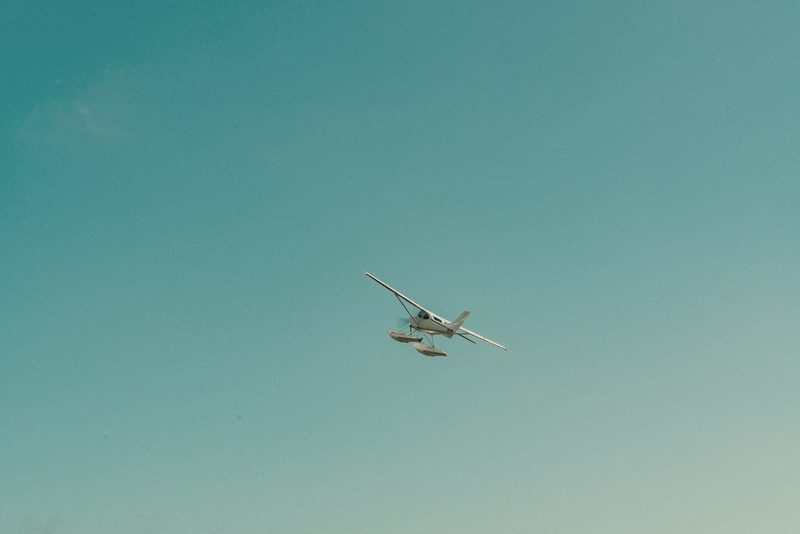
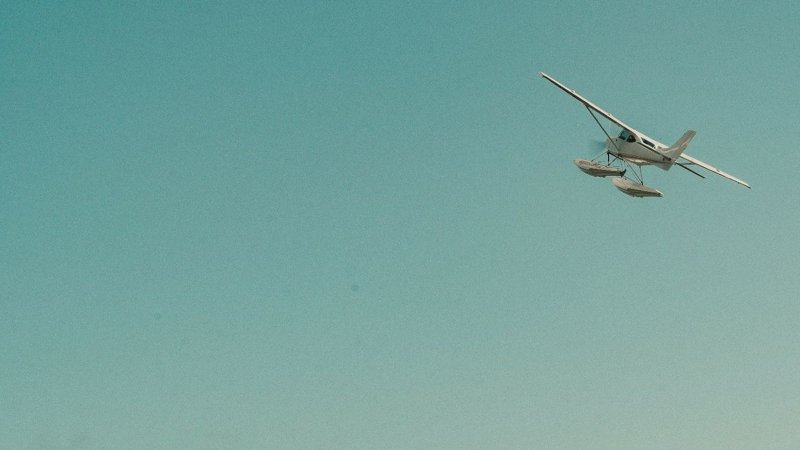
Headlines on photos with per-image placement, copy pass on repetition and myths, uniform text column

diff --git a/index.html b/index.html
@@ -119,19 +119,19 @@
 
   <main id="main">
     <section class="opener" aria-labelledby="home-title">
+      <div class="opener-photo">
+        <img class="pos-labyrinth" src="assets/img/labyrinth-full.jpg" srcset="assets/img/labyrinth-800.jpg 800w, assets/img/labyrinth-full.jpg 1500w" sizes="(min-width: 1240px) 1130px, 100vw" alt="A woman with a backpack walks between tall hedges in a maze" width="1500" height="2000" decoding="async">
+        <h1 class="photo-title" id="home-title">Lost in the labyrinth?<br> We'll guide you through.</h1>
+      </div>
       <div class="opener-text">
         <div class="opener-inner">
-          <h1 id="home-title">Lost in the labyrinth?<br> We'll guide you through.</h1>
-          <p class="lede">We know recruitment businesses from the inside. We've worked in every part of one, hiring included, so we understand what the business needs and what the person joining it needs too.</p>
+          <p class="lede">Recruitment can feel like a maze, whether you're hiring or looking for your next role. We know it from the inside, so we can show both of you the way through.</p>
           <ul class="chips" aria-label="Roles we recruit for">
           <li>Trainees</li><li>Recruiters</li><li>Sales</li><li>Marketing</li><li>Operations</li><li>Admin</li>
           </ul>
           <div class="actions"><a class="btn" href="contact.html">Get in touch</a></div>
         </div>
       </div>
-      <figure class="opener-photo">
-        <img class="pos-labyrinth" src="assets/img/labyrinth-full.jpg" srcset="assets/img/labyrinth-800.jpg 800w, assets/img/labyrinth-full.jpg 1500w" sizes="(min-width: 1240px) 1130px, 100vw" alt="A woman with a backpack walks between tall hedges in a maze" width="1500" height="2000" decoding="async">
-      </figure>
     </section>
 
     <section class="section white" aria-labelledby="myths-title">
@@ -141,31 +141,31 @@
           <li>
             <details>
               <summary><span class="label">Myth</span><span class="myth">A recruiter just fills the vacancy.</span><span class="reveal" aria-hidden="true"></span></summary>
-              <p class="truth"><span class="label">Truth</span>We understand your business, not just the vacancy, and the impact the role will have now and in the future. We don't place just to fill a gap. We place to support the growth of your business and the candidate.</p>
+              <p class="truth"><span class="label">Truth</span>We learn your business, not just the vacancy, and what the role will mean for it now and later. We don't place people to fill a gap. We place them so the business and the person both grow.</p>
             </details>
           </li>
           <li>
             <details>
               <summary><span class="label">Myth</span><span class="myth">Your CV says it all.</span><span class="reveal" aria-hidden="true"></span></summary>
-              <p class="truth"><span class="label">Truth</span>We take the time to understand you properly, not just your CV. You are more than a two page list of your experience, and what you are looking for is more than what's written on a job description.</p>
+              <p class="truth"><span class="label">Truth</span>You are more than two pages of experience, and what you want is more than a job description. We take the time to understand both.</p>
             </details>
           </li>
           <li>
             <details>
-              <summary><span class="label">Myth</span><span class="myth">Once your CV is sent, you're on your own.</span><span class="reveal" aria-hidden="true"></span></summary>
-              <p class="truth"><span class="label">Truth</span>We take the time to prepare you for every interview, so you walk in confident.</p>
+              <summary><span class="label">Myth</span><span class="myth">Once the CV is sent, the recruiter disappears.</span><span class="reveal" aria-hidden="true"></span></summary>
+              <p class="truth"><span class="label">Truth</span>We prepare every candidate for every interview, keep clients updated throughout, and stay in touch with both long after the start date.</p>
             </details>
           </li>
           <li>
             <details>
-              <summary><span class="label">Myth</span><span class="myth">You need experience to be a recruiter.</span><span class="reveal" aria-hidden="true"></span></summary>
-              <p class="truth"><span class="label">Truth</span>If you don't have direct recruitment experience but you have the motivation and skill set to succeed, our trainee roles are made for you.</p>
+              <summary><span class="label">Myth</span><span class="myth">You need experience to become a recruiter.</span><span class="reveal" aria-hidden="true"></span></summary>
+              <p class="truth"><span class="label">Truth</span>You don't. If you have the motivation and the skills to succeed, our trainee roles are made for you.</p>
             </details>
           </li>
           <li>
             <details>
-              <summary><span class="label">Myth</span><span class="myth">Recruitment is just a stop gap before another sales career.</span><span class="reveal" aria-hidden="true"></span></summary>
-              <p class="truth"><span class="label">Truth</span>Whether your first step turns into a long term career depends entirely on how it's approached. We help you understand what recruitment actually involves and whether it's right for you.</p>
+              <summary><span class="label">Myth</span><span class="myth">Recruitment is just a stop gap.</span><span class="reveal" aria-hidden="true"></span></summary>
+              <p class="truth"><span class="label">Truth</span>For plenty of people it becomes a long career. Whether it does for you depends on how you start, so we make sure you know what the job really involves before you say yes.</p>
             </details>
           </li>
         </ol>
@@ -179,12 +179,12 @@
         <a class="card" href="hiring.html">
           <figure class="card-photo"><img class="pos-pillars" src="assets/img/pillars-800.jpg" alt="" width="800" height="533" loading="lazy" decoding="async"><figcaption class="card-hint" aria-hidden="true">Relationships that stand the test of time.</figcaption></figure>
           <h3>Hiring</h3>
-          <p>We work with you as a partner, shaping the hire around your business.</p>
+          <p>Every role that keeps a recruitment business running, hired around how yours actually works.</p>
         </a>
         <a class="card" href="careers.html">
           <figure class="card-photo"><img class="pos-sisyphus" src="assets/img/sisyphus-800.jpg" alt="" width="800" height="600" loading="lazy" decoding="async"><figcaption class="card-hint" aria-hidden="true">Pushing the same boulder every quarter?</figcaption></figure>
           <h3>Careers</h3>
-          <p>Starting out or ready for your next move, we take the time to understand what you want and prepare you properly for every interview.</p>
+          <p>Starting out or ready for your next move, we'll find where you fit and prepare you for every interview.</p>
         </a>
         </div>
       </div>

diff --git a/styles.css b/styles.css
@@ -38,6 +38,7 @@
   --container: 1240px;
   --radius-lg: 24px;
   --pad: clamp(16px, 4vw, 56px);
+  --inset: clamp(22px, 4.5vw, 64px); /* text column inside the photo frame */
 }
 
 *, *::before, *::after { box-sizing: border-box; }
@@ -68,7 +69,8 @@ a:hover { color: var(--delos-blue-900); }
 ::selection { background: var(--pink); color: var(--white); }
 
 .wrap { width: 100%; max-width: var(--container); margin: 0 auto; padding: 0 var(--pad); }
-.narrow { max-width: 820px; }
+.wrap.narrow { padding-left: calc(var(--pad) + var(--inset)); padding-right: calc(var(--pad) + var(--inset)); }
+.wrap.narrow > * { max-width: 760px; }
 
 .skip { position: absolute; left: -9999px; }
 .skip:focus { left: 16px; top: 16px; background: var(--white); padding: 8px 12px; z-index: 20; }
@@ -145,11 +147,10 @@ p { margin: 0 0 1em; text-wrap: pretty; }
 a.card:hover { color: var(--slate); }
 a.card:hover .card-photo img { transform: scale(1.03); }
 a.card:hover h3 { color: var(--delos-blue); }
-/* Hint: the page's headline fades in on the photo when you hover (always shown on touch screens). */
+/* Each card carries its page's headline on the photo, as the page heroes do. */
 .card-photo { position: relative; }
 .card-hint { position: absolute; inset: auto 0 0 0; padding: 72px 28px 22px; margin: 0; font-family: var(--font-display); font-size: clamp(20px, 1.9vw, 24px); line-height: 1.2; letter-spacing: -0.01em; text-wrap: balance; color: #fff; background: linear-gradient(to top, rgba(29,30,33,.72) 0%, rgba(29,30,33,.35) 55%, rgba(29,30,33,0) 100%); opacity: 0; transform: translateY(8px); transition: opacity 400ms var(--ease), transform 400ms var(--ease); pointer-events: none; }
-a.card:hover .card-hint, a.card:focus-visible .card-hint { opacity: 1; transform: none; }
-@media (hover: none) { .card-hint { opacity: 1; transform: none; } }
+.card-hint { opacity: 1; transform: none; }
 @media (prefers-reduced-motion: reduce) { .card-hint { transition: none; } }
 
 /* Steps */
@@ -192,17 +193,27 @@ a.card:hover .card-hint, a.card:focus-visible .card-hint { opacity: 1; transform
 .contact-list { list-style: none; padding: 0; margin: 32px 0 0; border-top: 1px solid var(--slate-200); }
 .contact-list li { padding: 16px 0; border-bottom: 1px solid var(--slate-200); }
 
-/* Opener: every page opens the same way. One idea, centred: headline, one line, one action,
-   then the page's photo below the words, large, with soft corners. Photos appear only here and on the Home tiles. */
-.opener { overflow: hidden; padding: 48px 0 32px; }
-.opener-text { padding: 0 var(--pad); }
-.opener-inner { max-width: 880px; margin: 0 auto; text-align: center; }
-.opener-inner .lede { margin-left: auto; margin-right: auto; }
-.opener-inner .chips, .opener-inner .actions { justify-content: center; }
-.opener-inner .actions { margin-top: 28px; }
-.opener-photo { margin: 40px auto 0; width: calc(100% - 2 * var(--pad)); max-width: calc(var(--container) - 2 * var(--pad)); overflow: hidden; aspect-ratio: 4 / 5; border-radius: var(--radius-lg); background: var(--slate-200); }
+/* Opener: every page opens the same way. The photo carries its headline in white along the bottom
+   (one soft dark shade), and the line beneath explains it, on the same left edge, so photo, headline
+   and words read as one piece. Careers repeats the same frame for its second story (.story). */
+.opener { overflow: hidden; padding: 24px 0 64px; }
+.opener.story { padding-top: 0; }
+.opener-photo { position: relative; margin: 0 auto; width: calc(100% - 2 * var(--pad)); max-width: calc(var(--container) - 2 * var(--pad)); overflow: hidden; aspect-ratio: 4 / 5; border-radius: var(--radius-lg); background: var(--slate-200); }
 .opener-photo img { width: 100%; height: 100%; object-fit: cover; }
-/* Photos carry one shared film grade baked into the files (warm, lifted blacks, fine grain), so they read as one set. */
+.opener-photo::after { content: ""; position: absolute; inset: 0; background: linear-gradient(to top, rgba(17, 18, 22, 0.74) 0%, rgba(17, 18, 22, 0.42) 34%, rgba(17, 18, 22, 0) 62%); pointer-events: none; }
+.photo-title { position: absolute; left: 0; bottom: 0; z-index: 1; margin: 0; padding: 0 var(--inset) var(--inset); max-width: 13em; color: var(--white); text-shadow: 0 2px 24px rgba(17, 18, 22, 0.35); }
+/* Per photo, the headline sits in the calmest part of the frame. Default is bottom left;
+   .title-top moves it (and the shade) to the top, e.g. Sisyphus, so the figure stays clear. */
+.opener-photo.title-top::after { background: linear-gradient(to bottom, rgba(17, 18, 22, 0.62) 0%, rgba(17, 18, 22, 0.3) 34%, rgba(17, 18, 22, 0) 60%); }
+.title-top .photo-title { top: 0; bottom: auto; padding: var(--inset) var(--inset) 0; }
+h2.photo-title { font-size: var(--t-display); line-height: 1.02; letter-spacing: -0.02em; }
+.opener-text { padding: 0 var(--pad); }
+.opener-inner { max-width: calc(var(--container) - 2 * var(--pad)); margin: 0 auto; padding: 36px var(--inset) 0; }
+.opener-inner > :last-child { margin-bottom: 0; }
+.opener-inner p:not(.lede) { max-width: 38em; }
+.opener-inner .chips { margin-top: 0; }
+.opener-inner .actions { margin-top: 28px; }
+.opener-inner .contact-list { max-width: 38em; }
 .opener-placeholder { display: flex; align-items: center; justify-content: center; padding: 32px; text-align: center; color: var(--slate-500); font-size: var(--t-small); }
 .opener-placeholder p { margin: 0; max-width: 18em; }
 .pos-labyrinth { object-position: 50% 45%; }
@@ -211,9 +222,9 @@ a.card:hover .card-hint, a.card:focus-visible .card-hint { opacity: 1; transform
 .pos-ships { object-position: 50% 60%; }
 @media (min-width: 760px) { .pos-ships { object-position: 50% 84%; } }
 .pos-crossroads { object-position: 50% 50%; }
-.pos-plane { object-position: 54% 58%; }
+.pos-plane { object-position: 88% 50%; }
+@media (min-width: 760px) { .pos-plane { object-position: 50% 50%; } }
 .pos-dead-end { object-position: 50% 50%; }
-.section-photo { margin-top: 56px; }
 
 /* Footer: three even columns. Company | Pages | Contact */
 .site-footer { background: var(--slate); color: #C9CACD; padding: 72px 0 56px; font-size: var(--t-small); }
@@ -237,8 +248,10 @@ a.card:hover .card-hint, a.card:focus-visible .card-hint { opacity: 1; transform
   .site-header nav { width: auto; order: 1; margin-left: auto; }
   .header-cta { order: 2; margin-left: 8px; }
   .footer-grid { grid-template-columns: 1fr 1fr 1fr; }
-  .opener { padding: 96px 0 40px; }
-  .opener-photo { margin-top: 64px; aspect-ratio: 16 / 9; }
+  .opener { padding: 40px 0 88px; }
+  .opener.story { padding-top: 0; }
+  .opener-photo { aspect-ratio: 16 / 9; max-height: calc(100vh - 140px); min-height: 460px; }
+  .opener-inner { padding-top: 44px; }
 }
 
 @media (prefers-reduced-motion: reduce) {

diff --git a/careers.html b/careers.html
@@ -119,30 +119,31 @@
 
   <main id="main">
     <section class="opener" aria-labelledby="careers-title">
+      <div class="opener-photo title-top">
+        <img class="pos-sisyphus" src="assets/img/sisyphus-full.jpg" srcset="assets/img/sisyphus-800.jpg 800w, assets/img/sisyphus-full.jpg 1500w" sizes="(min-width: 1240px) 1130px, 100vw" alt="A man pushing against a huge boulder on a rocky hillside" width="1500" height="1125" decoding="async">
+        <h1 class="photo-title" id="careers-title">Pushing the same boulder every quarter?</h1>
+      </div>
       <div class="opener-text">
         <div class="opener-inner">
-          <h1 id="careers-title">Pushing the same boulder every quarter<span class="dot">?</span></h1>
-          <p class="lede">Already in recruitment and thinking about your next move? We'll talk through what you want from your next role and which businesses are worth knowing about. Everything you tell us stays confidential.</p>
+          <p class="lede">Same targets, same uphill push, and nothing changes? If you're already in recruitment and ready for more, we'll talk through what you want from your next role and which businesses are worth knowing about. Everything you tell us stays confidential.</p>
           <div class="actions"><a class="btn" href="https://calendly.com/maria-delosrecruitment/initial-call?a1=Candidate%20call">Book a candidate call</a></div>
         </div>
       </div>
-      <figure class="opener-photo">
-        <img class="pos-sisyphus" src="assets/img/sisyphus-full.jpg" srcset="assets/img/sisyphus-800.jpg 800w, assets/img/sisyphus-full.jpg 1500w" sizes="(min-width: 1240px) 1130px, 100vw" alt="A man pushing against a huge boulder on a rocky hillside" width="1500" height="1125" decoding="async">
-      </figure>
     </section>
 
-    <section class="section white" aria-labelledby="new-title">
-      <div class="wrap narrow">
-        <h2 id="new-title">Did you fall into recruitment?<br> We'll help you fly.</h2>
-        <p class="lede">Whether your first step turns into a long term career depends entirely on how it's approached. That's where Delos comes in.</p>
-        <p>If you're new to the industry, we make sure you have a clear understanding of what recruitment actually involves and whether it's right for you.</p>
-        <p>We take the time to understand you properly, not just your CV.</p>
-        <p>Every conversation with us is confidential. On our first call, we'll talk about where you are and what you want next, whether you're making a move now or just considering one further down the line.</p>
-        <div class="actions"><a class="btn" href="https://calendly.com/maria-delosrecruitment/initial-call?a1=Candidate%20call">Book a candidate call</a></div>
+    <section class="opener story" aria-labelledby="new-title">
+      <div class="opener-photo">
+        <img class="pos-plane" src="assets/img/plane-full.jpg" srcset="assets/img/plane-800.jpg 800w, assets/img/plane-full.jpg 1350w" sizes="(min-width: 1240px) 1130px, 100vw" alt="A small seaplane climbing into a clear blue sky" width="1350" height="760" loading="lazy" decoding="async">
+        <h2 class="photo-title" id="new-title">Did you fall into recruitment?<br> We'll help you fly.</h2>
       </div>
-      <figure class="opener-photo section-photo">
-        <img class="pos-plane" src="assets/img/plane-full.jpg" srcset="assets/img/plane-800.jpg 800w, assets/img/plane-full.jpg 2000w" sizes="(min-width: 1240px) 1130px, 100vw" alt="A small seaplane flying across a clear blue sky" width="2000" height="1334" loading="lazy" decoding="async">
-      </figure>
+      <div class="opener-text">
+        <div class="opener-inner">
+          <p class="lede">Most people fall into recruitment by accident. We'd rather you chose it with your eyes open, and then flew.</p>
+          <p>If you're new to the industry, we'll show you what the job really involves and help you decide whether it's right for you. You don't need recruitment experience. If you have the motivation and the skills to succeed, our trainee roles are made for you.</p>
+          <p>On our first call we'll talk about where you are and what you want next, whether you're ready to move now or just thinking about it.</p>
+          <div class="actions"><a class="btn" href="https://calendly.com/maria-delosrecruitment/initial-call?a1=Candidate%20call">Book a candidate call</a></div>
+        </div>
+      </div>
     </section>
 
   </main>

diff --git a/hiring.html b/hiring.html
@@ -119,28 +119,28 @@
 
   <main id="main">
     <section class="opener" aria-labelledby="hiring-title">
+      <div class="opener-photo">
+        <img class="pos-pillars" src="assets/img/pillars-full.jpg" srcset="assets/img/pillars-800.jpg 800w, assets/img/pillars-full.jpg 1500w" sizes="(min-width: 1240px) 1130px, 100vw" alt="The caryatids of the Erechtheion in Athens, carved women holding up the temple roof together" width="1500" height="1000" decoding="async">
+        <h1 class="photo-title" id="hiring-title">Relationships that stand the test of time.</h1>
+      </div>
       <div class="opener-text">
         <div class="opener-inner">
-          <h1 id="hiring-title">Relationships that stand the test of time<span class="dot">.</span></h1>
-          <p class="lede">We work with you as a partner, shaping the hire around your business.</p>
+          <p class="lede">The right people hold a business up for years. We work with you as a partner, shaping each hire around your business, and we stay in touch long after the start date.</p>
           <div class="actions"><a class="btn" href="https://calendly.com/maria-delosrecruitment/initial-call?a1=Client%20call">Book a client call</a></div>
         </div>
       </div>
-      <figure class="opener-photo">
-        <img class="pos-pillars" src="assets/img/pillars-full.jpg" srcset="assets/img/pillars-800.jpg 800w, assets/img/pillars-full.jpg 1500w" sizes="(min-width: 1240px) 1130px, 100vw" alt="The caryatids of the Erechtheion in Athens, carved women holding up the temple roof together" width="1500" height="1000" decoding="async">
-      </figure>
     </section>
 
     <section class="section white" aria-labelledby="how-title">
       <div class="wrap narrow">
         <h2 id="how-title">How we work<span class="dot">.</span></h2>
-        <p class="lede">We recruit across your whole business, from trainees and recruiters to the sales, marketing, operations and admin roles that keep it running. Every one of them shapes how your business grows. We've worked in every part of a recruitment business ourselves, including the hiring, so we know what you need to make your business work and what your new hire needs to be happy and successful.</p>
+        <p class="lede">We recruit across your whole business, from trainees and recruiters to the sales, marketing, operations and admin roles that keep it running. Every one of those hires shapes how you grow, so each one gets the same care.</p>
         <ol class="steps">
           <li><h3>A first call</h3><p>We get to know your business, the role and the kind of person who will thrive in it.</p></li>
-          <li><h3>The search</h3><p>We speak to people properly, not just their CVs, and only put forward people we believe will fit your team.</p></li>
+          <li><h3>The search</h3><p>We get to know every candidate properly, beyond the CV, and only put forward people we believe will fit your team.</p></li>
           <li><h3>Interview preparation</h3><p>We take the time to prepare every candidate and keep you updated throughout.</p></li>
-          <li><h3>Building the team</h3><p>We guide you in the right direction to attract and retain the best members of your team.</p></li>
-          <li><h3>Placement and beyond</h3><p>It doesn't stop once the placement is made. We stay in touch with you and your new hire, and we are always there as a point of contact.</p></li>
+          <li><h3>Building the team</h3><p>We advise you on how to attract the right people and how to keep them.</p></li>
+          <li><h3>Placement and beyond</h3><p>It doesn't stop once the placement is made. We stay in touch with you and your new hire, and we're always there as a point of contact.</p></li>
         </ol>
         <div class="actions"><a class="btn" href="https://calendly.com/maria-delosrecruitment/initial-call?a1=Client%20call">Book a client call</a></div>
       </div>

diff --git a/about.html b/about.html
@@ -119,25 +119,24 @@
 
   <main id="main">
     <section class="opener" aria-labelledby="about-title">
+      <div class="opener-photo">
+        <img class="pos-crossroads" src="assets/img/crossroads-full.jpg" srcset="assets/img/crossroads-800.jpg 800w, assets/img/crossroads-full.jpg 1500w" sizes="(min-width: 1240px) 1130px, 100vw" alt="People crossing a busy junction of pedestrian crossings, seen from above" width="1500" height="2250" decoding="async">
+        <h1 class="photo-title" id="about-title">Standing at a crossroads?<br> We know the way.</h1>
+      </div>
       <div class="opener-text">
         <div class="opener-inner">
-          <h1 id="about-title">Standing at a crossroads?<br> We know the way.</h1>
-          <p class="lede">We're a specialist Rec2Rec covering all the roles that make a recruitment business work. That includes trainees, recruiters, sales, marketing, operations, and admin. Anything that helps a recruitment business grow, we recruit for it.</p>
+          <p class="lede">Who to hire, where to go next: recruitment is full of junctions. We've worked inside recruitment businesses across operations, compliance, training and internal hiring, so we know where each road leads.</p>
           <div class="actions"><a class="btn" href="contact.html">Get in touch</a></div>
         </div>
       </div>
-      <figure class="opener-photo">
-        <img class="pos-crossroads" src="assets/img/crossroads-full.jpg" srcset="assets/img/crossroads-800.jpg 800w, assets/img/crossroads-full.jpg 1500w" sizes="(min-width: 1240px) 1130px, 100vw" alt="People crossing a busy junction of pedestrian crossings, seen from above" width="1500" height="2250" decoding="async">
-      </figure>
     </section>
 
     <section class="section white" aria-label="Our story">
       <div class="wrap narrow">
-        <p>Delos Recruitment was started to do recruitment the way it should be done. Candidates properly prepared. Businesses hiring with intention. People entering the industry with a clear understanding of what recruitment actually involves and whether it's right for them.</p>
-        <p>We've worked in every part of a recruitment business, including the hiring. So we know what a business needs to function, and what a candidate needs to be happy and successful in it.</p>
-        <p>Recruitment is an industry people often fall into. Whether that first step turns into a long term career depends entirely on how it's approached. That's where Delos comes in.</p>
-        <p>We take the time to understand people properly, not just their CV. And we work with clients as a partner, shaping the hire around the business. Every hire is just the beginning, and how it starts shapes what comes next.</p>
-        <p>If you're hiring or thinking about a move into recruitment, get in touch.</p>
+        <p class="lede">Delos Recruitment is a specialist Rec2Rec. We recruit for every role that makes a recruitment business work: trainees, recruiters, sales, marketing, operations and admin.</p>
+        <p>We started Delos to do recruitment the way it should be done. Candidates properly prepared. Businesses hiring with intention. People entering the industry knowing what the job really involves and whether it's right for them.</p>
+        <p>We work with clients as partners and with candidates as people, not CVs. We work primarily across the South East and cover the whole UK.</p>
+        <p>If you're hiring or thinking about your next move, we'd like to hear from you.</p>
         <div class="actions"><a class="btn" href="contact.html">Get in touch</a></div>
       </div>
     </section>

diff --git a/contact.html b/contact.html
@@ -119,10 +119,13 @@
 
   <main id="main">
     <section class="opener" aria-labelledby="contact-title">
+      <div class="opener-photo">
+        <img class="pos-ships" src="assets/img/ships-full.jpg" srcset="assets/img/ships-800.jpg 800w, assets/img/ships-full.jpg 1333w" sizes="(min-width: 1240px) 1130px, 100vw" alt="Two ships passing on a calm sea at dusk, with the moon above" width="1333" height="2000" decoding="async">
+        <h1 class="photo-title" id="contact-title">No ships passing in the night.</h1>
+      </div>
       <div class="opener-text">
         <div class="opener-inner">
-          <h1 id="contact-title">No ships passing<br> in the night<span class="dot">.</span></h1>
-          <p class="lede">Whether you're hiring or thinking about your next move, every conversation with us is confidential. We work with businesses and candidates primarily across the South East, and throughout the UK.</p>
+          <p class="lede">We don't make contact once and disappear. Whether you're hiring or thinking about your next move, we're with you before, during and long after, and every conversation is confidential. We work primarily across the South East and cover the whole UK.</p>
           <div class="actions"><a class="btn" href="https://calendly.com/maria-delosrecruitment/initial-call?a1=Client%20call">Book a client call</a><a class="btn" href="https://calendly.com/maria-delosrecruitment/initial-call?a1=Candidate%20call">Book a candidate call</a></div>
           <ul class="contact-list" aria-label="Contact details">
             <li><span class="eyebrow">Email</span><a href="mailto:hello@delosrecruitment.co.uk">hello@delosrecruitment.co.uk</a></li>
@@ -131,9 +134,6 @@
           </ul>
         </div>
       </div>
-      <figure class="opener-photo">
-        <img class="pos-ships" src="assets/img/ships-full.jpg" srcset="assets/img/ships-800.jpg 800w, assets/img/ships-full.jpg 1333w" sizes="(min-width: 1240px) 1130px, 100vw" alt="Two ships passing on a calm sea at dusk, with the moon above" width="1333" height="2000" decoding="async">
-      </figure>
     </section>
 
   </main>

diff --git a/404.html b/404.html
@@ -119,15 +119,15 @@
 
   <main id="main">
     <section class="opener" aria-labelledby="notfound-title">
+      <div class="opener-photo">
+        <img class="pos-dead-end" src="assets/img/dead-end-full.jpg" srcset="assets/img/dead-end-800.jpg 800w, assets/img/dead-end-full.jpg 1500w" sizes="(min-width: 1240px) 1130px, 100vw" alt="A blue dead end road sign against the sky" width="1500" height="2250" decoding="async">
+        <h1 class="photo-title" id="notfound-title">Page not found.</h1>
+      </div>
       <div class="opener-text">
         <div class="opener-inner">
-          <h1 id="notfound-title">Page not found<span class="dot">.</span></h1>
           <div class="actions"><a class="btn" href="/index.html">Go to the homepage</a></div>
         </div>
       </div>
-      <figure class="opener-photo">
-        <img class="pos-dead-end" src="assets/img/dead-end-full.jpg" srcset="assets/img/dead-end-800.jpg 800w, assets/img/dead-end-full.jpg 1500w" sizes="(min-width: 1240px) 1130px, 100vw" alt="A blue dead end road sign against the sky" width="1500" height="2250" decoding="async">
-      </figure>
     </section>
 
   </main>

diff --git a/CLAUDE.md b/CLAUDE.md
@@ -25,7 +25,7 @@ Website for Delos Recruitment Ltd, a specialist recruitment-to-recruitment (rec2
 - Headline font is Gloock (free, SIL Open Font Licence). Never use Erstoria.
 - Never use em dashes or en dashes in copy. UK English. No emoji, no exclamation marks.
 - Team voice: Delos speaks as "we" so it reads as more than one person. No "I", no personal "about Maria" section, no photos of people from Maria's life.
-- Campaign images (agreed with Maria, Oct 2026): Greek myth themed photos with a short headline set into the image, no logo on the images (the DELOS wordmark was removed; its corner now holds the button), no pink highlights, no nudity, no generative AI images. Free Unsplash licence photos, saved full frame in `assets/img` as `<name>-full.jpg` (up to 2000px) and `<name>-800.jpg`, framed per image with `object-position`. Current set: labyrinth (Home), pillars (Hiring hero and Home Hiring card), Sisyphus (Careers hero) and small plane (Careers, below "Thinking about a move into recruitment?", the falling-into-recruitment section), crossroads (About: a busy pedestrian crossing seen from directly above, people tracing the X, Unsplash TRJjPc0wss0), ships (Contact), dead-end sign (404: blue dead-end road sign against the sky, Unsplash e-najV9MDXg). All photos share one film grade baked into the files (no CSS filter): saturation x0.86, blacks lifted (0.06 + 0.90 x value), warmed (red x1.03, blue x0.94), fine mono grain; outliers get small extra tweaks (darker photos brightened, cool skies desaturated a little more). Apply the same to any new photo. Headlines are signed off by Maria; don't change them without asking. Page headlines (Oct 2026): Home "Lost in the labyrinth? We'll guide you through.", Hiring "Relationships that stand the test of time.", Careers "Pushing the same boulder every quarter?" and "Did you fall into recruitment? We'll help you fly.", About "Standing at a crossroads? We know the way.", Contact "No ships passing in the night." On scroll the question or statement lands first and the answer follows. Each campaign photo IS its section (`.story`): the photo runs edge to edge in full colour, its line is the section headline set in white along the bottom of the photo (one soft dark shade at the foot of every photo), on the same column as the words directly beneath, so photo, headline and text read as one piece. No buttons or text boxes on photos. Every page opens the same way: a photo hero at the same height with the page headline (h1) on it. Home labyrinth ("Everything you have heard about recruitment is a myth."), Hiring pillars ("Relationships that stand the test of time."), Careers small plane ("Did you fall into recruitment? We'll help you fly.") plus Sisyphus as the experienced-recruiter section, About Mykonos alley ("About Delos Recruitment"), Contact ships ("No ships passing in the night."), 404 Mykonos. The variety of subjects is deliberate; the shared frame, position, type and shade make them one series. Motion: the photo opens like a raised blind, settles, then drifts gently with scroll; the headline lands and the words follow. Reduced motion shows everything still.
+- Campaign images (agreed with Maria, Oct 2026): Greek myth themed photos with a short headline set into the image, no logo on the images (the DELOS wordmark was removed; its corner now holds the button), no pink highlights, no nudity, no generative AI images. Free Unsplash licence photos, saved full frame in `assets/img` as `<name>-full.jpg` (up to 2000px) and `<name>-800.jpg`, framed per image with `object-position`. Current set: labyrinth (Home), pillars (Hiring hero and Home Hiring card), Sisyphus (Careers hero) and small plane (Careers, below "Thinking about a move into recruitment?", the falling-into-recruitment section), crossroads (About: a busy pedestrian crossing seen from directly above, people tracing the X, Unsplash TRJjPc0wss0), ships (Contact), dead-end sign (404: blue dead-end road sign against the sky, Unsplash e-najV9MDXg). All photos share one film grade baked into the files (no CSS filter): saturation x0.86, blacks lifted (0.06 + 0.90 x value), warmed (red x1.03, blue x0.94), fine mono grain; outliers get small extra tweaks (darker photos brightened, cool skies desaturated a little more). Apply the same to any new photo. Headlines are signed off by Maria; don't change them without asking. Page headlines (Oct 2026): Home "Lost in the labyrinth? We'll guide you through.", Hiring "Relationships that stand the test of time.", Careers "Pushing the same boulder every quarter?" and "Did you fall into recruitment? We'll help you fly.", About "Standing at a crossroads? We know the way.", Contact "No ships passing in the night." On scroll the question or statement lands first and the answer follows. Each campaign photo IS its section (`.story`): the photo runs edge to edge in full colour, its line is the section headline set in white along the bottom of the photo (one soft dark shade at the foot of every photo), on the same column as the words directly beneath, so photo, headline and text read as one piece. No buttons or text boxes on photos. Every page opens the same way: a photo hero at the same height with the page headline (h1) on it. Home labyrinth ("Everything you have heard about recruitment is a myth."), Hiring pillars ("Relationships that stand the test of time."), Careers small plane ("Did you fall into recruitment? We'll help you fly.") plus Sisyphus as the experienced-recruiter section, About Mykonos alley ("About Delos Recruitment"), Contact ships ("No ships passing in the night."), 404 Mykonos. Layout (23 Oct 2026): headline (h1, or h2 for the Careers plane story) sits inside `.opener-photo` as `.photo-title`, white, no pink, with one soft shade; placement is per photo in the calmest part of the frame (default bottom left; `.title-top` for Sisyphus so the man stays clear). The line directly beneath each photo explains the image (e.g. Contact: "We don't make contact once and disappear."). Text sections (`.wrap.narrow`) share the hero text column; myths, cards and reviews keep the photo width. Plane photo is cropped to 1350x760 so the plane flies top right, clear of the headline. The variety of subjects is deliberate; the shared frame, position, type and shade make them one series. Motion: the photo opens like a raised blind, settles, then drifts gently with scroll; the headline lands and the words follow. Reduced motion shows everything still.
 - Speak directly to the reader ("you", "your business"). Hiring speaks to clients, Careers to candidates. About describes the business.
 - Stress thoroughness, never speed ("quick", "fast", "efficient").
 - Reviews: keep to two or three, quoted word for word, credited by role (for example "Candidate, Google review"), never by name.
@@ -34,6 +34,8 @@ Website for Delos Recruitment Ltd, a specialist recruitment-to-recruitment (rec2
 ## Pages
 
 All copy is approved by Maria in the "Delos Website Copy" doc. Change wording only when she asks.
+
+Copy pass (23 Oct 2026, asked for by Maria): repetition removed so each idea has one home ("worked in every part" on Home/About only, "first step / long term career" on Careers only, confidentiality on Careers hero and Contact only, "Every hire is just the beginning" on the Home close only). Myths now: fills the vacancy; your CV says it all; once the CV is sent the recruiter disappears; you need experience to become a recruiter; recruitment is just a stop gap.
 
 1. **Home** (index.html): tagline with "myth." in pink, role labels, five myths (tap "Ask the oracle +" to reveal each truth, no JavaScript), Hiring and Careers paths, two reviews, closing line.
 2. **Hiring** (hiring.html): for recruitment businesses hiring. "How we work" in five steps, in Maria's words.
